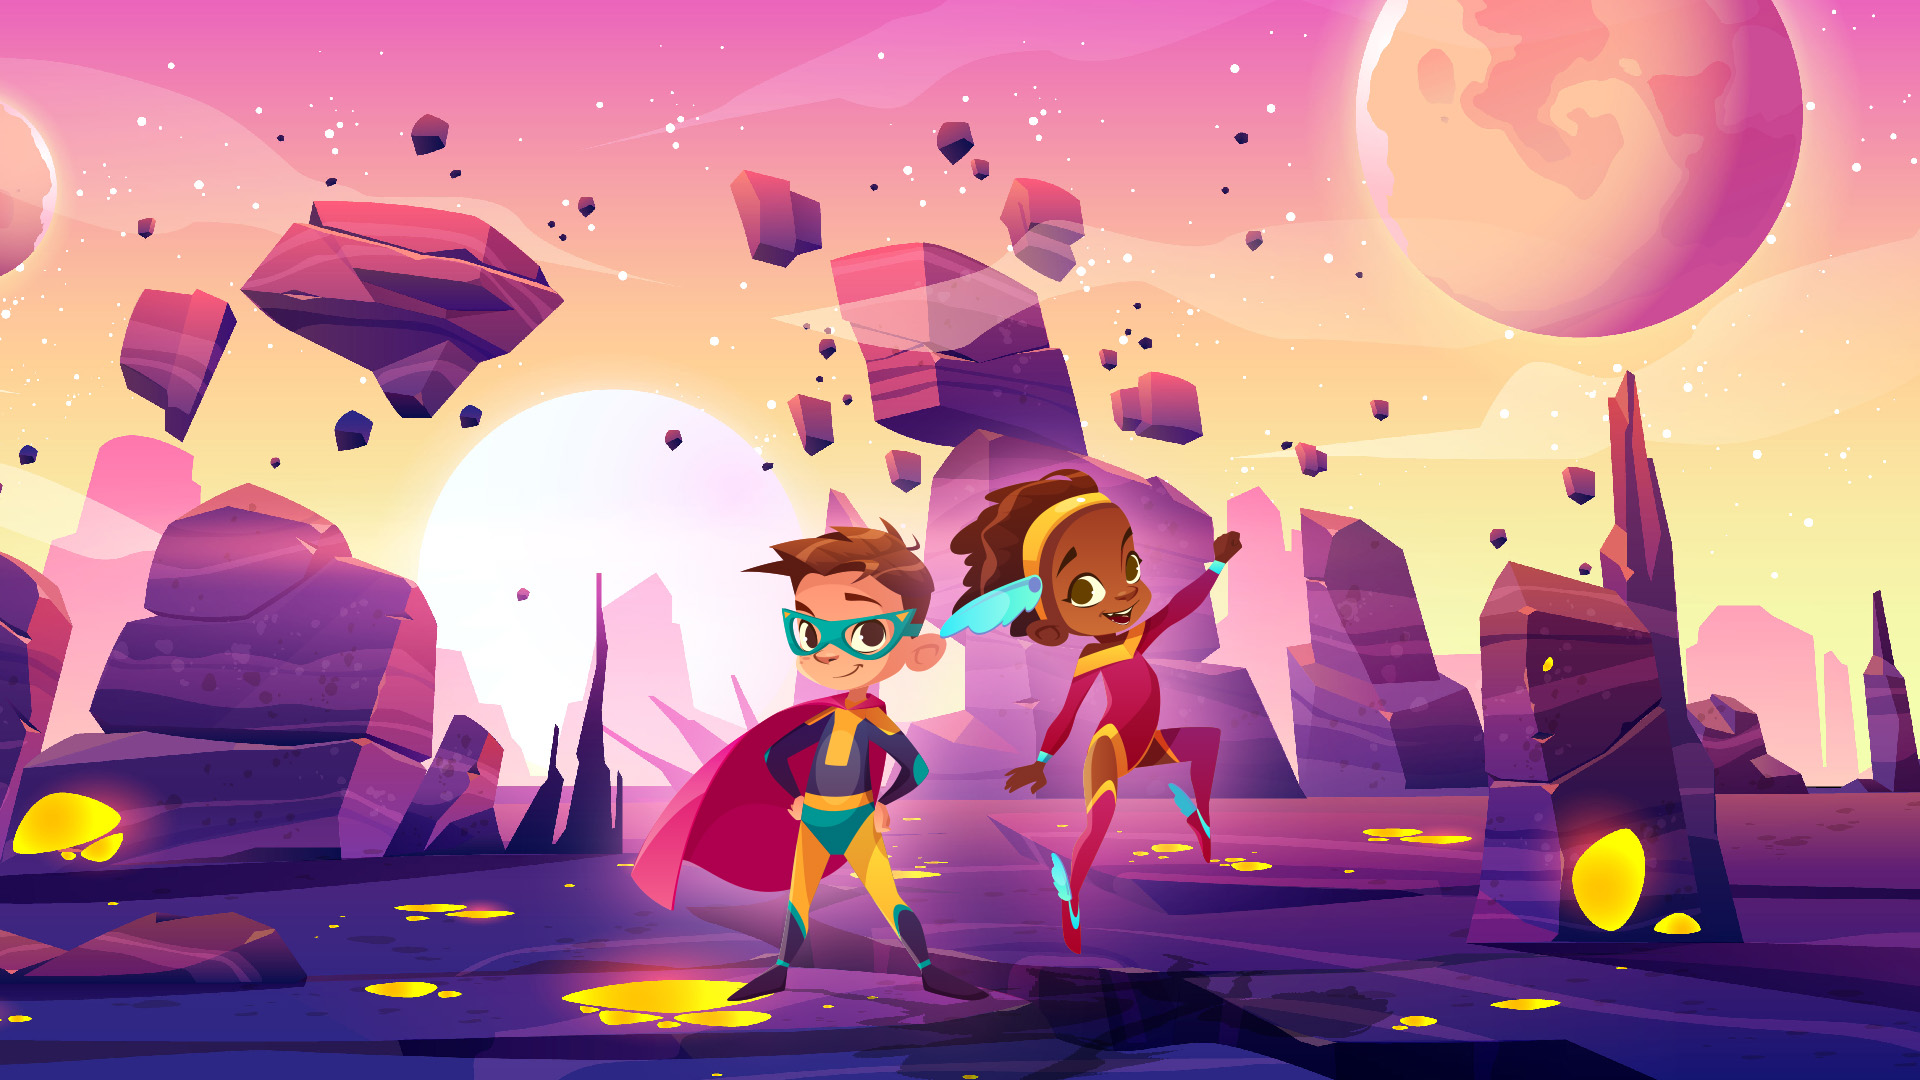
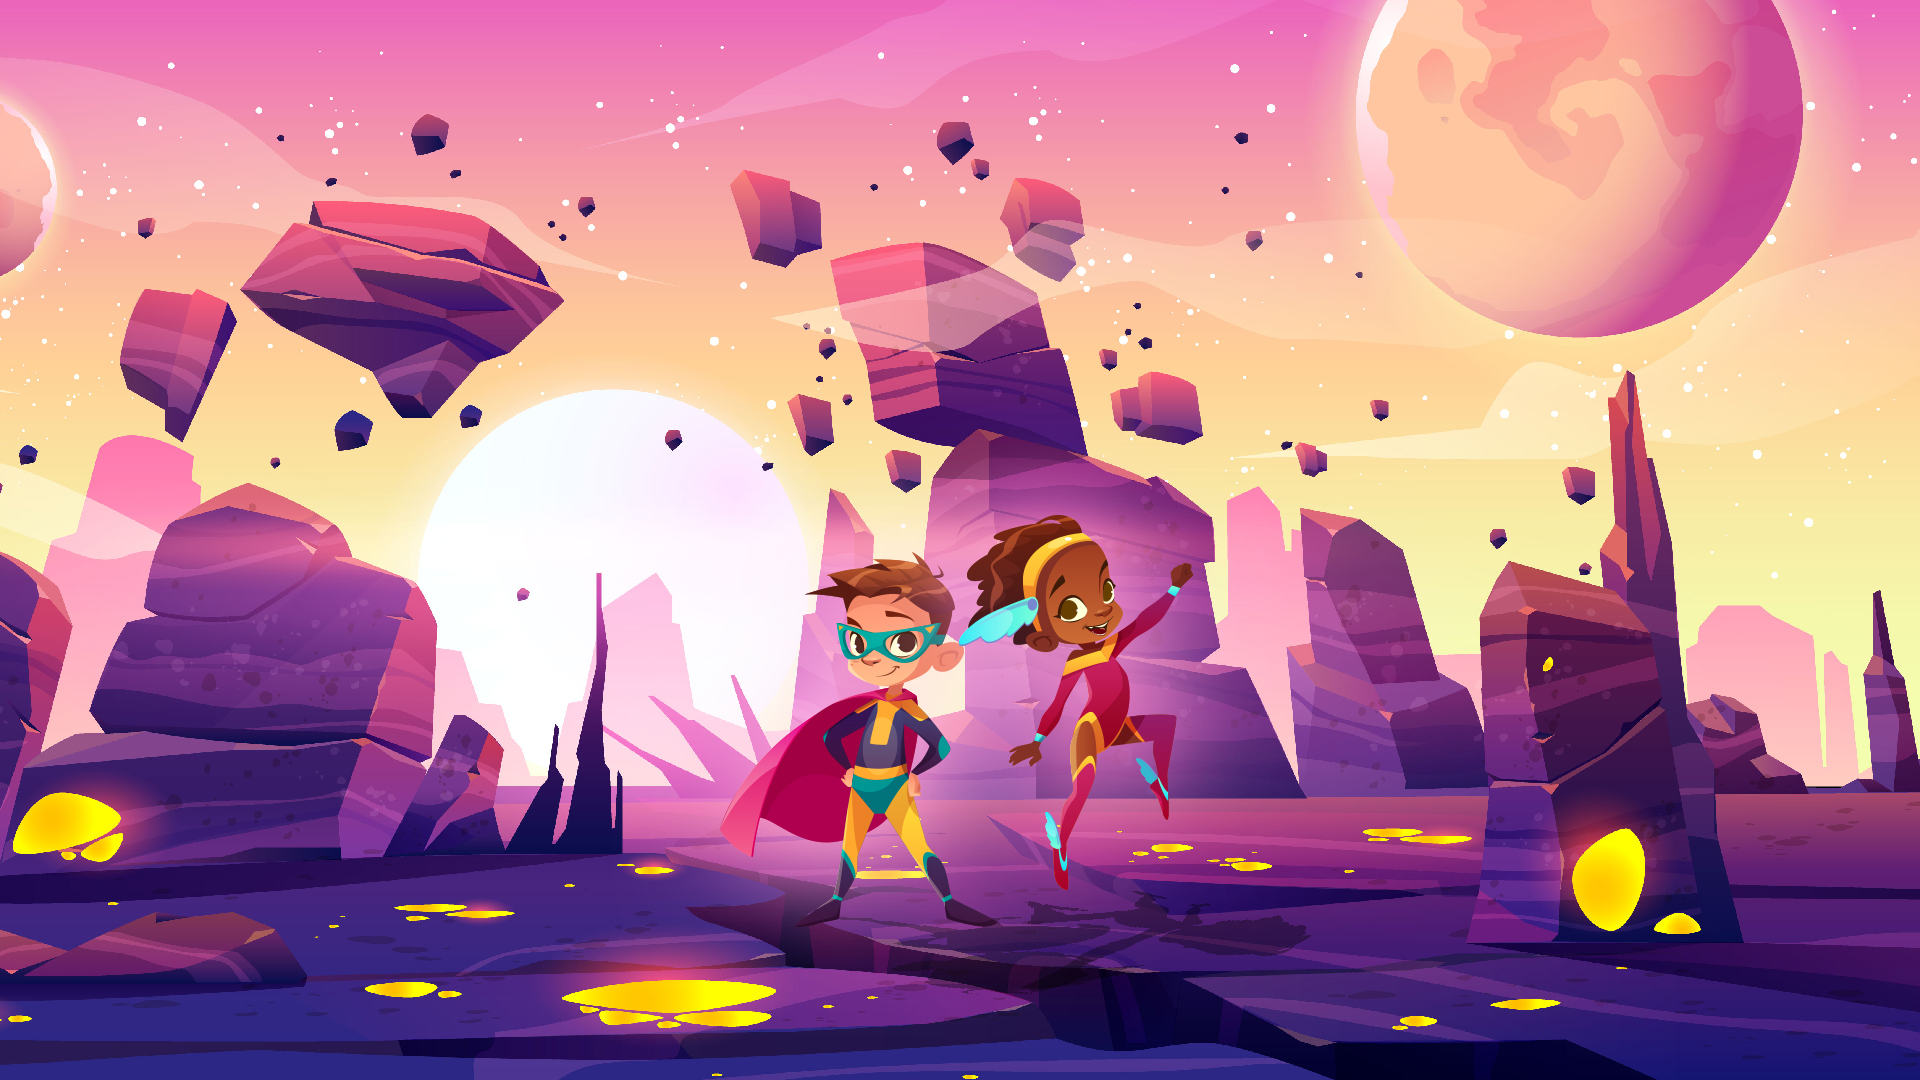
inigo final

Changed region(s): [[0.2812, 0.3972, 0.7188, 1.0]]

diff --git a/templates/index.html b/templates/index.html
@@ -8,17 +8,17 @@
       <div class="container">
         <div id="first-box">
           <div class="text-center">
-            <img src="{% static 'assets/imgs/Logo2.png' %}" style="width:500px;">
+            <img src="{% static 'assets/imgs/Logo2.png' %}" id="stardreams-logo">
           </div>
             <div class="classy-div mx-auto" style="width: 60%;">
                 <img src="{% static 'assets/icons/play.svg'%}" alt="" style="height: 12px; filter: invert(100%) sepia(0%) saturate(2985%) hue-rotate(215deg) brightness(114%) contrast(101%);">
-                <a href="{% static 'ejecutables/1.0/Windows/Stardreams_setup.exe' %}" class="p-h3 px-3" style="display: inline; text-decoration: none; color:white;">Descárgalo en PC</a>
+                <a href="{% static 'ejecutables/1.0/Windows/Stardreams_setup.exe' %}" class="p-h4 px-3" style="display: inline; text-decoration: none; color:white;">Descárgalo en PC</a>
                 <img src="{% static 'assets/icons/play.svg' %}" alt="" style="height: 12px; filter: invert(100%) sepia(0%) saturate(2985%) hue-rotate(215deg) brightness(114%) contrast(101%); transform: rotate(180deg);">
 
             </div>
             <div class="classy-div mx-auto mt-2" style="width: 60%;">
                 <img src="{% static 'assets/icons/play.svg'%}" alt="" style="height: 12px; filter: invert(100%) sepia(0%) saturate(2985%) hue-rotate(215deg) brightness(114%) contrast(101%);">
-                <a href="{% static 'ejecutables/1.0/MacOS/Stardreams_setup.dmg.zip' %}" class="p-h3 px-3" style="display: inline; text-decoration: none; color:white;">Descárgalo en Mac</a>
+                <a href="{% static 'ejecutables/1.0/MacOS/Stardreams_setup.dmg.zip' %}" class="p-h4 px-3" style="display: inline; text-decoration: none; color:white;">Descárgalo en Mac</a>
                 <img src="{% static 'assets/icons/play.svg' %}" alt="" style="height: 12px; filter: invert(100%) sepia(0%) saturate(2985%) hue-rotate(215deg) brightness(114%) contrast(101%); transform: rotate(180deg);">
             </div>
         </div>

diff --git a/static/assets/styles/style.css b/static/assets/styles/style.css
@@ -19,6 +19,10 @@
     
 }
 
+#stardreams-logo {
+    width:500px;
+}
+
 #my-header {
     height: 100vh;
     background-image: url(../imgs/MainBG.jpg);
@@ -248,7 +252,7 @@
     margin: auto;
 }
 .character-img {
-    height: 500px;
+    height: 450px;
 }
 
 .sec-text-inside-2 {
@@ -262,6 +266,11 @@
     height: 400px;
     /* text-align: right; */
 }
+
+#stardreams-logo {
+    width:350px;
+}
+
 
 
 }
